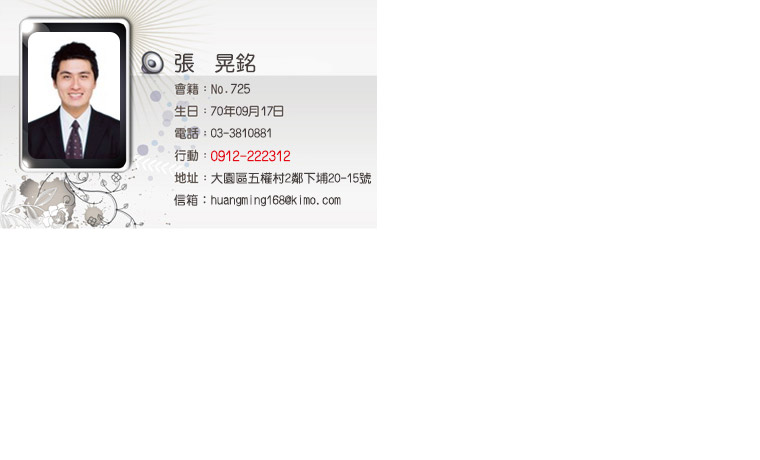
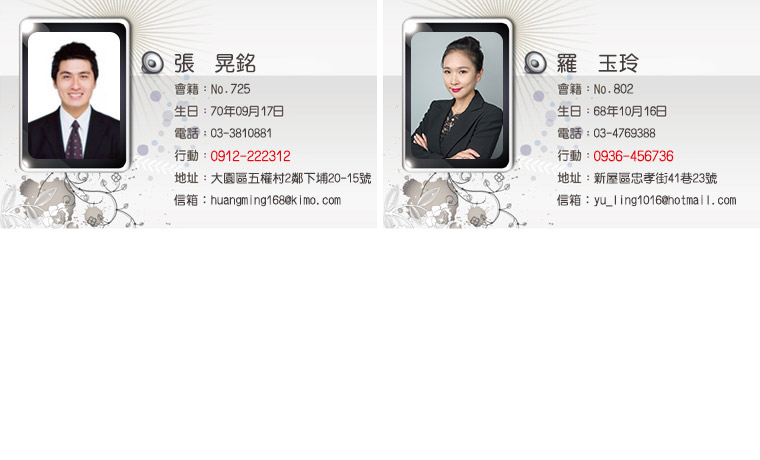
+43屆理監事

Changed region(s): [[0.4842, 0.0, 1.0, 0.5174]]

diff --git a/Work.WebProj/Controllers/AboutUsController.cs b/Work.WebProj/Controllers/AboutUsController.cs
@@ -14,6 +14,10 @@ namespace DotWeb.Controllers
         {
             return View();
         }
+        public ActionResult Director_43()
+        {
+            return View();
+        }
         public ActionResult Director_42()
         {
             return View();
